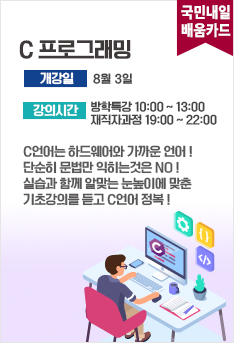
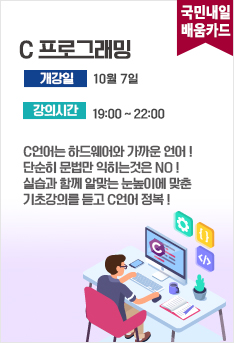
Homepage_HJ_0914

Changed region(s): [[0.3889, 0.2915, 0.9274, 0.379], [0.3889, 0.2041, 0.5983, 0.2624]]

diff --git a/utils/data-generator/short-term-course/Course_Java_gen.js b/utils/data-generator/short-term-course/Course_Java_gen.js
@@ -27,7 +27,7 @@ export default {
     },
   ],
   courseSchedules: {
-    term: "2020.09.07.월 ~ 09.28.월",
+    term: "2020.10.07.수 ~ 10.29.목",
     courseScheduleTime: [
     
       {
@@ -37,6 +37,10 @@ export default {
             cost: "320,000원",
             educationMethods: "오프라인",
           },
+          {
+            cost: "300,000원",
+            educationMethods: "온라인",
+          }
         ],
       },
     ],
@@ -47,6 +51,15 @@ export default {
       educationMethodDetail: [
         "비트교육센터 강의장에서 강의 진행",
         "서울시 서초구 서초대로 74길 33, 비트빌딩 3층",
+      ],
+    },
+    {
+      educationMethod: "온라인(비대면강의)",
+      educationMethodDetail: [
+        "수업운영 플랫폼(Zoom)을 활용한 온라인 강의",
+        "수업교재 제공",
+        "강의 참여방법 : 단톡방을 개설 후 수업진행 코드를 링크(공유)",
+        "개인 노트북/PC 필수",
       ],
     },
   ],
@@ -193,7 +206,28 @@ export default {
     },
   ],
 
+  // 국민내일 배움카드 안내
+  cardInfomation: [
+    {
+      descriptionContents: [
+        "기존 구직자 또는 재직자로 운영되던 내일배움카드를 국민내일배움카드로 통합 ('20,1,1)",
+        "실업 재직, 자영업자 여부 관계없이 신청 가능",
+      ],
+    },
+    {
+      descriptionTitle: "지원금액",
+      descriptionContents: ["1인당 300~500만원까지 훈련비의 45~85% 지원"],
+    },
+    {
+      descriptionTitle: "문의처",
+      descriptionContents: [
+        "고용노동부 고객상담센터 (Tel. 국번없이 1350)",
+        "HRD-NET 홈페이지 (www.hrd.go.kr)",
+      ],
+    },
+  ],
+
   courseGuide: ["문의 : 비트교육센터 Tel. 02-3486-1780"],
   formUrl:
-    "https://docs.google.com/forms/d/e/1FAIpQLSclLZeLng8imL8AL8v7wtQ0BqnpnD1R6CoVpeYfQUphkHVWAA/viewform?usp=sf_link",
+    "https://docs.google.com/forms/d/e/1FAIpQLSf8qjTqxk0WGkp6eHRBIumJFhbTjROs89tFBVvMKcxB0-y5cA/viewform?usp=sf_link",
 };

diff --git a/utils/data-generator/short-term-course/Course_C_gen.js b/utils/data-generator/short-term-course/Course_C_gen.js
@@ -26,7 +26,7 @@ export default {
     },
   ],
   courseSchedules: {
-    term: "2020.09.07.월 ~ 09.28.월",
+    term: "2020.10.07.수 ~ 10.29.목",
     courseScheduleTime: [
       {
         time: "19:00 ~ 22:00",
@@ -34,6 +34,10 @@ export default {
           {
             cost: "320,000원",
             educationMethods: "오프라인",
+          },
+          {
+            cost: "300,000원",
+            educationMethods: "온라인",
           },
         ],
       },
@@ -48,7 +52,15 @@ export default {
         "서울시 서초구 서초대로 74길 33, 비트빌딩 3층",
       ],
     },
-  
+    {
+      educationMethod: "온라인\n(비대면강의)",
+      educationMethodDetail: [
+        "수업운영 플랫폼(Zoom)을 활용한 온라인 강의",
+        "수업교재 제공",
+        "강의 참여방법 : 단톡방을 개설 후 수업진행 코드를 링크(공유)",
+        "개인 노트북/PC 필수",
+      ],
+    },
   ],
   courseContents: [
     {
@@ -182,5 +194,5 @@ export default {
   ],
   courseGuide: ["문의 : 비트교육센터 Tel. 02-3486-1780"],
   formUrl:
-    "https://docs.google.com/forms/d/e/1FAIpQLSclLZeLng8imL8AL8v7wtQ0BqnpnD1R6CoVpeYfQUphkHVWAA/viewform?usp=sf_link",
+    "https://docs.google.com/forms/d/e/1FAIpQLSf8qjTqxk0WGkp6eHRBIumJFhbTjROs89tFBVvMKcxB0-y5cA/viewform?usp=sf_link",
 };

diff --git a/pages/index.js b/pages/index.js
@@ -171,17 +171,17 @@ export default function Home() {
         <GridTitle>단기 핵심과정</GridTitle>
         <SmallCardContainer>
           <Card
-            src="dangi_c.png"
+            src="dangi_c.jpg"
             alt="dangi_c"
             onClick={() => togglePopup(Course_C_gen, null)}
           />
           <Card
-            src="dangi_java.png"
+            src="dangi_java.jpg"
             alt="dangi_java"
             onClick={() => togglePopup(Course_Java_gen, null)}
           />
           <Card
-            src="dangi_python.png"
+            src="dangi_python.jpg"
             alt="dangi_data"
             onClick={() => togglePopup(Course_Python_gen, null)}
           />
